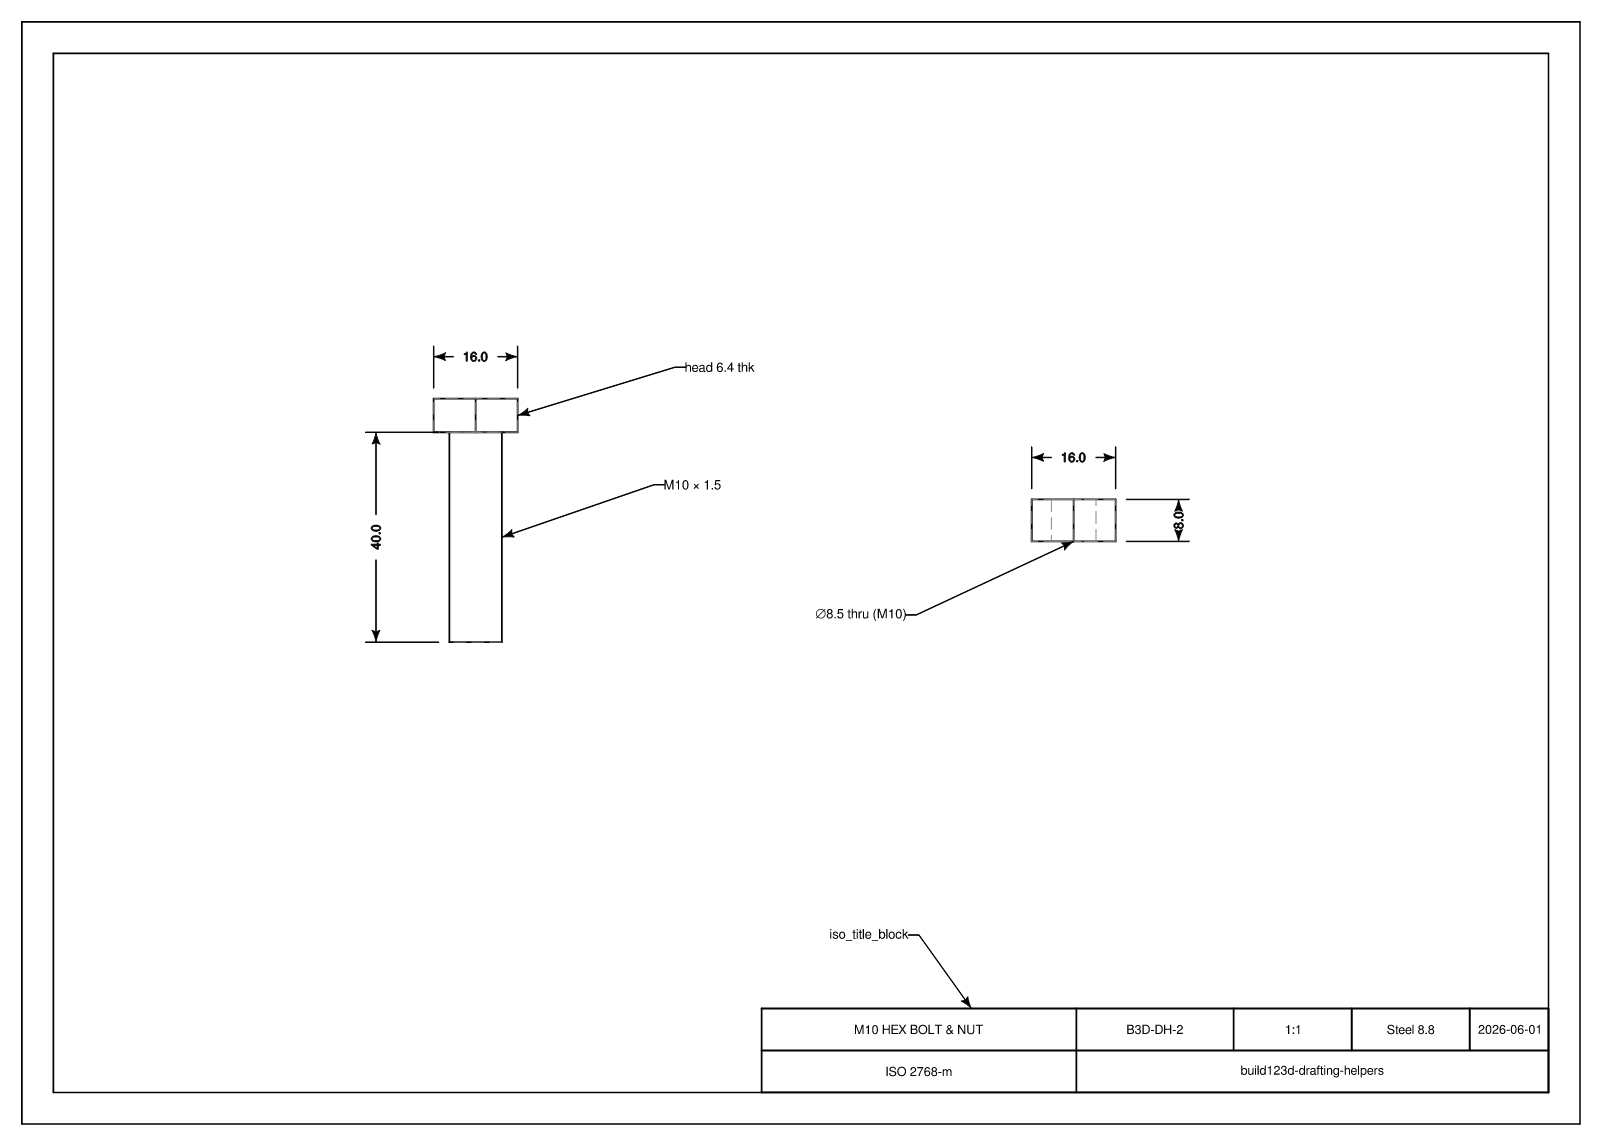
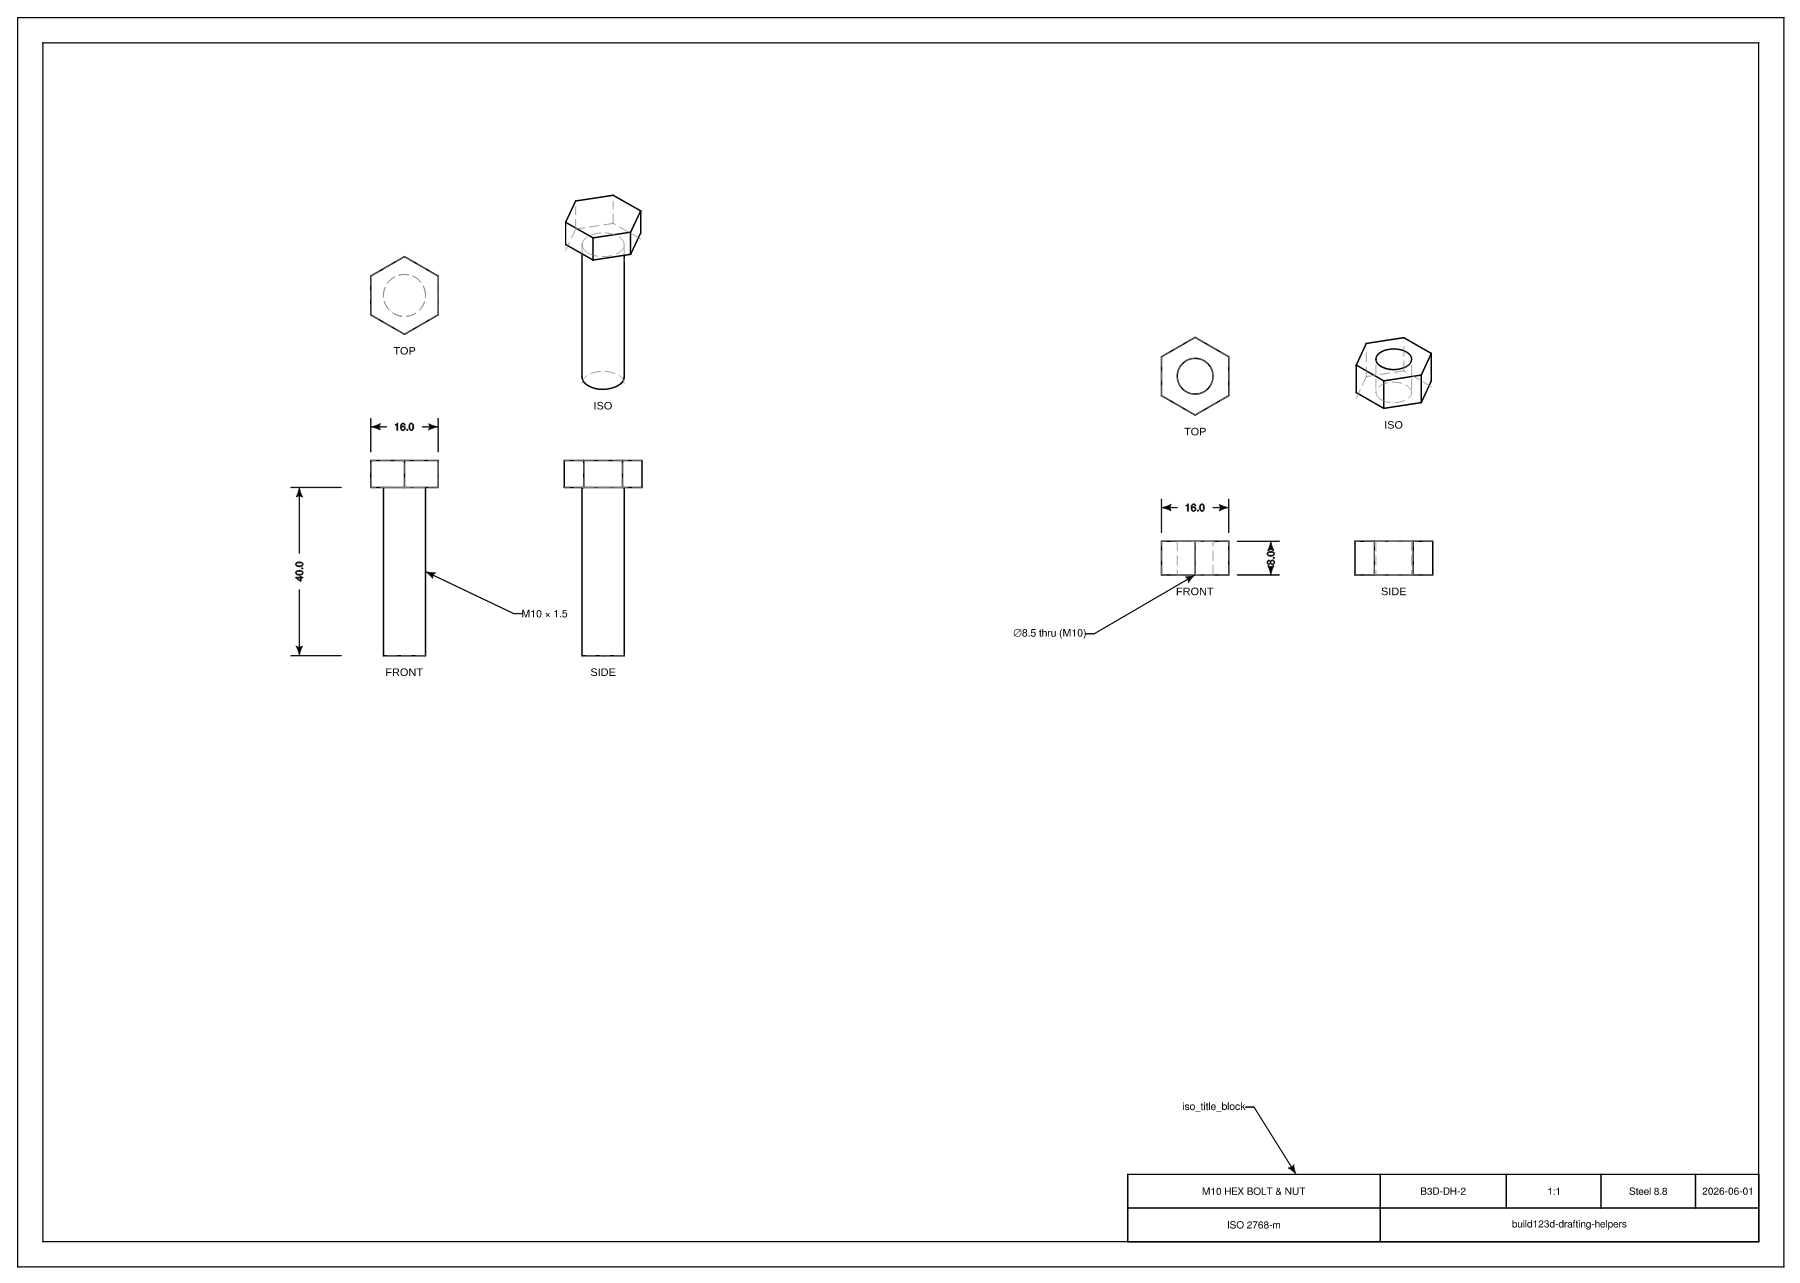
examples: multi-view part drawing — front/top/side + isometric per part
Expand the M10 bolt + nut drawing to a full third-angle set per part (front,
top, side) plus an isometric, on A3. project_to_viewport() supplies each view;
the isometrics are 3D pictorials. The lint scope is tightened to check dim/leader
lines against the FRONT/TOP/SIDE/ISO view labels (the title-block text is not a
forbidden zone — the iso_title_block leader points at it), and view spacing was
opened up until lint() returns 0. Test + README + docs image updated.

diff --git a/examples/part_drawing.py b/examples/part_drawing.py
@@ -3,12 +3,13 @@
 Unlike the specimen sheet (a catalogue of symbols), this shows how you actually
 *make a drawing* with the helpers:
 
-    build the 3D part  ->  project_to_viewport() views  ->  dimension with the
-    helpers  ->  lint with find_interferences()  ->  export SVG/DXF
+    build the 3D part  ->  project_to_viewport() views (front / top / side / iso)
+    ->  dimension with the helpers  ->  lint with find_interferences()  ->  export
 
-It's an A4 frame with an iso_title_block(), the bolt and nut as projected front
-views, dimensioned with dim_linear()/leader() (drafts from draft_preset()), and
-the layout is verified collision-free by lint() before export.
+It's an A3 frame with an iso_title_block(); each part gets a third-angle set of
+front/top/side views plus an isometric, dimensioned with dim_linear()/leader()
+(drafts from draft_preset()). The layout is verified collision-free by lint()
+before export.
 
     python examples/part_drawing.py            # writes part_drawing.svg
 """
@@ -18,19 +19,28 @@ from types import SimpleNamespace
 
 from build123d import (
     Align, BuildPart, BuildSketch, Circle, Color, Compound, Edge, ExportSVG,
-    LineType, Location, Plane, RegularPolygon, Text, extrude,
+    LineType, Location, Mode, Plane, RegularPolygon, Text, extrude,
 )
 from build123d_drafting import (
     dim_linear, draft_preset, find_interferences, iso_title_block, leader,
 )
 
 DRAFT = draft_preset(font_size=2.5, decimal_precision=1)
-PW, PH, MARGIN = 297.0, 210.0, 6.0          # A4 landscape
+PW, PH, MARGIN = 420.0, 297.0, 6.0          # A3 landscape
 AF, HEAD_H, DIA, LEN = 16.0, 6.4, 10.0, 40.0
 NUT_AF, NUT_T, BORE = 16.0, 8.0, 8.5
+SANS = "Liberation Sans"
+D = 800.0                                    # camera distance
 
-part_v, hidden_v, dims_l, text_l, border = [], [], [], [], []
+border, part_v, hidden_v, dims_l, text_l = [], [], [], [], []
 lint_items: list = []
+view_labels: list = []   # FRONT/TOP/SIDE/ISO labels — linted against the dim lines
+
+
+def _label_box(t, name="text"):
+    bb = t.bounding_box()
+    return SimpleNamespace(label_bbox=(bb.min.X, bb.min.Y, bb.max.X, bb.max.Y),
+                           label_str=name, lines=None, shape=None)
 
 
 # --- 3D parts (simplified — ISO 6410 style, no modelled threads) ------------
@@ -52,22 +62,31 @@ def _nut():
         extrude(amount=NUT_T)
         with BuildSketch():
             Circle(BORE / 2)
-        extrude(amount=NUT_T, mode=__import__("build123d").Mode.SUBTRACT)
+        extrude(amount=NUT_T, mode=Mode.SUBTRACT)
     return p.part
 
 
-def _front_view(part, look_z, page_xy):
-    """Project a front view (look along -Y) and move its centre to page_xy.
-    Returns (translation_dx, translation_dy) so feature coords can be placed."""
-    vis, hid = part.project_to_viewport((0, -200, look_z), (0, 0, 1), (0, 0, look_z))
-    v = Compound(children=list(vis))
-    ctr = v.bounding_box().center()
-    dx, dy = page_xy[0] - ctr.X, page_xy[1] - ctr.Y
-    loc = Location((dx, dy, 0))
-    part_v.append(v.moved(loc))
-    if hid:
-        hidden_v.append(Compound(children=list(hid)).moved(loc))
-    return dx, dy, look_z
+def _project(part, origin, up, look):
+    vis, hid = part.project_to_viewport(origin, up, look)
+    return Compound(children=list(vis)), (Compound(children=list(hid)) if hid else None)
+
+
+def _place(comp, cx, cy):
+    ctr = comp.bounding_box().center()
+    return comp.moved(Location((cx - ctr.X, cy - ctr.Y, 0)))
+
+
+def _add_view(vis, hid, cx, cy, label):
+    v = _place(vis, cx, cy)
+    part_v.append(v)
+    if hid is not None:
+        hidden_v.append(_place(hid, cx, cy))
+    bb = v.bounding_box()
+    lbl = Text(label, font_size=2.6, font=SANS, align=(Align.CENTER, Align.MAX)
+               ).moved(Location((cx, bb.min.Y - 3.0, 0)))
+    text_l.append(lbl)
+    view_labels.append(lbl)
+    return bb
 
 
 def _dim(p1, p2, side, dist, label):
@@ -83,11 +102,23 @@ def _leader(tip, elbow, label):
     lint_items.append(ld)
 
 
-def _note_item(shapes, name):
-    bb = Compound(children=shapes).bounding_box()
-    lint_items.append(SimpleNamespace(
-        label_bbox=(bb.min.X, bb.min.Y, bb.max.X, bb.max.Y),
-        label_str=name, lines=None, shape=None))
+def _draw_part(part, cz, gx, gy):
+    """Third-angle front/top/side + isometric. Returns the placed FRONT bbox."""
+    front = _project(part, (0, -D, cz), (0, 0, 1), (0, 0, cz))
+    top = _project(part, (0, 0, D), (0, 1, 0), (0, 0, cz))
+    side = _project(part, (D, 0, cz), (0, 0, 1), (0, 0, cz))
+    iso = _project(part, (D, D, D), (0, 0, 1), (0, 0, cz))
+
+    fb = front[0].bounding_box()
+    fw, fh = fb.size.X, fb.size.Y
+    sw = side[0].bounding_box().size.X
+    th = top[0].bounding_box().size.Y
+
+    f_bb = _add_view(*front, gx, gy, "FRONT")
+    _add_view(*top, gx, gy + fh / 2 + 30 + th / 2, "TOP")          # above front
+    _add_view(*side, gx + fw / 2 + 30 + sw / 2, gy, "SIDE")         # right of front
+    _add_view(*iso, gx + fw / 2 + 30 + sw / 2, gy + fh / 2 + 40, "ISO")
+    return f_bb
 
 
 # --- page frame + title block -----------------------------------------------
@@ -110,39 +141,36 @@ tb_loc = Location((PW / 2 - MARGIN - TB_W, -PH / 2 + MARGIN, 0))
 part_v.append(tb.lines.moved(tb_loc))
 text_l.append(tb.text.moved(tb_loc))
 
-# --- bolt: front view + dimensions ------------------------------------------
-bx, by = -62.0, 10.0
-bdx, bdy, _ = _front_view(_bolt(), LEN / 2, (bx, by))
-# placed page_y = world_z - LEN/2 + bdy ; world z: shaft 0..LEN, head LEN..LEN+HEAD_H
-y0 = -LEN / 2 + bdy                 # shaft start (world z = 0)
-y_head = LEN / 2 + bdy             # head start (world z = LEN)
-y_top = y_head + HEAD_H
-xL, xR = bx - AF / 2, bx + AF / 2   # head spans across-flats
-_dim((bx - DIA / 2, y0, 0), (bx - DIA / 2, y_head, 0), "left", 14, str(LEN))      # thread length
-_dim((xL, y_top, 0), (xR, y_top, 0), "above", 8, str(AF))                         # head A/F
-_leader((bx + DIA / 2, (y0 + y_head) / 2, 0), (bx + 34, (y0 + y_head) / 2 + 10, 0),
-        f"M{int(DIA)} × 1.5")
-_leader((xR, y_top - HEAD_H / 2, 0), (xR + 30, y_top + 6, 0), f"head {HEAD_H} thk")
+# --- bolt: views + dimensions (front view) ----------------------------------
+fb = _draw_part(_bolt(), LEN / 2, -118.0, 20.0)
+y0, y_head, y_top = fb.min.Y, fb.max.Y - HEAD_H, fb.max.Y
+xL, xR = fb.center().X - AF / 2, fb.center().X + AF / 2
+_dim((xL - DIA / 2, y0, 0), (xL - DIA / 2, y_head, 0), "left", 12, str(LEN))   # thread length
+_dim((xL, y_top, 0), (xR, y_top, 0), "above", 8, str(AF))                      # head A/F
+_leader((fb.center().X + DIA / 2, (y0 + y_head) / 2, 0),
+        (fb.center().X + 26, (y0 + y_head) / 2 - 10, 0), f"M{int(DIA)} × 1.5")
 
-# --- nut: front view + dimensions -------------------------------------------
-nx, ny = 52.0, 10.0
-ndx, ndy, _ = _front_view(_nut(), NUT_T / 2, (nx, ny))
-ny0 = -NUT_T / 2 + ndy
-ny1 = NUT_T / 2 + ndy
-nxL, nxR = nx - NUT_AF / 2, nx + NUT_AF / 2
-_dim((nxL, ny1, 0), (nxR, ny1, 0), "above", 8, str(NUT_AF))                       # A/F
-_dim((nxR, ny0, 0), (nxR, ny1, 0), "right", 12, str(NUT_T))                       # thickness
-_leader((nx, ny0, 0), (nx - 30, ny0 - 14, 0), f"⌀{BORE} thru (M{int(DIA)})")
+# --- nut: views + dimensions (front view) -----------------------------------
+nb = _draw_part(_nut(), NUT_T / 2, 70.0, 20.0)
+_dim((nb.min.X, nb.max.Y, 0), (nb.max.X, nb.max.Y, 0), "above", 8, str(NUT_AF))   # A/F
+_dim((nb.max.X, nb.min.Y, 0), (nb.max.X, nb.max.Y, 0), "right", 10, str(NUT_T))   # thickness
+_leader((nb.center().X, nb.min.Y, 0), (nb.center().X - 24, nb.min.Y - 14, 0),
+        f"⌀{BORE} thru (M{int(DIA)})")
 
-# title block is a labelled feature too
+# the title block is a labelled feature too
 _leader((tb_loc.position.X + 40, -PH / 2 + MARGIN + tb.bbox["height"], 0),
-        (tb_loc.position.X + 30, -PH / 2 + MARGIN + tb.bbox["height"] + 14, 0),
+        (tb_loc.position.X + 30, -PH / 2 + MARGIN + tb.bbox["height"] + 16, 0),
         "iso_title_block")
 
 
 def lint():
-    """Lint the drawing's annotations with find_interferences() before export."""
-    return find_interferences(lint_items)
+    """Lint the drawing's annotations with find_interferences() before export.
+
+    Checks the dim/leader lines + labels against each other and against the
+    FRONT/TOP/SIDE/ISO view labels (the title block text is intentionally not a
+    forbidden zone — the iso_title_block leader is *meant* to point at it).
+    """
+    return find_interferences(lint_items + [_label_box(v) for v in view_labels])
 
 
 def write_part_drawing(svg_path: str = "part_drawing.svg") -> str:
@@ -161,8 +189,7 @@ def write_part_drawing(svg_path: str = "part_drawing.svg") -> str:
 
 if __name__ == "__main__":
     import sys
-    issues = lint()
-    for i in issues:
+    for i in lint():
         print(f"[{i.severity}] {i.code}: {i.message}")
-    print(f"lint: {sum(i.severity == 'error' for i in issues)} error(s)")
+    print(f"lint: {sum(i.severity == 'error' for i in lint())} error(s)")
     print("wrote", write_part_drawing(sys.argv[1] if len(sys.argv) > 1 else "part_drawing.svg"))

diff --git a/README.md b/README.md
@@ -276,8 +276,9 @@ is build123d geometry — text included — it also exports to DXF and scales li
 Where the specimen sheet is a *catalogue*, this shows the **end-to-end workflow on a real
 part** (an M10 hex bolt + nut): build the 3D part → `project_to_viewport()` views →
 dimension with `dim_linear()` / `leader()` → **lint with `find_interferences()`** → export.
-An A4 frame, an `iso_title_block()`, projected front views with hidden lines, and the layout
-is verified collision-free by `lint()` before it's written.
+An A3 frame, an `iso_title_block()`, a third-angle set of **front / top / side views plus an
+isometric** for each part (with dashed hidden lines), and the layout is verified
+collision-free by `lint()` before it's written.
 
 ![M10 bolt and nut drawing](docs/part_drawing.png)
 

diff --git a/CHANGELOG.md b/CHANGELOG.md
@@ -5,9 +5,9 @@
 ### Examples
 
 - **`examples/part_drawing.py`**: a worked M10 hex bolt + nut drawing demonstrating the
-  end-to-end workflow — build the 3D part, `project_to_viewport()` views, dimension with the
-  helpers, `lint()` with `find_interferences()`, then export. Complements the specimen-sheet
-  catalogue.
+  end-to-end workflow — build the 3D part, `project_to_viewport()` into a third-angle set of
+  front/top/side views plus an isometric per part, dimension with the helpers, `lint()` with
+  `find_interferences()`, then export. Complements the specimen-sheet catalogue.
 
 ## v0.1.11 — 2026-06-01
 
